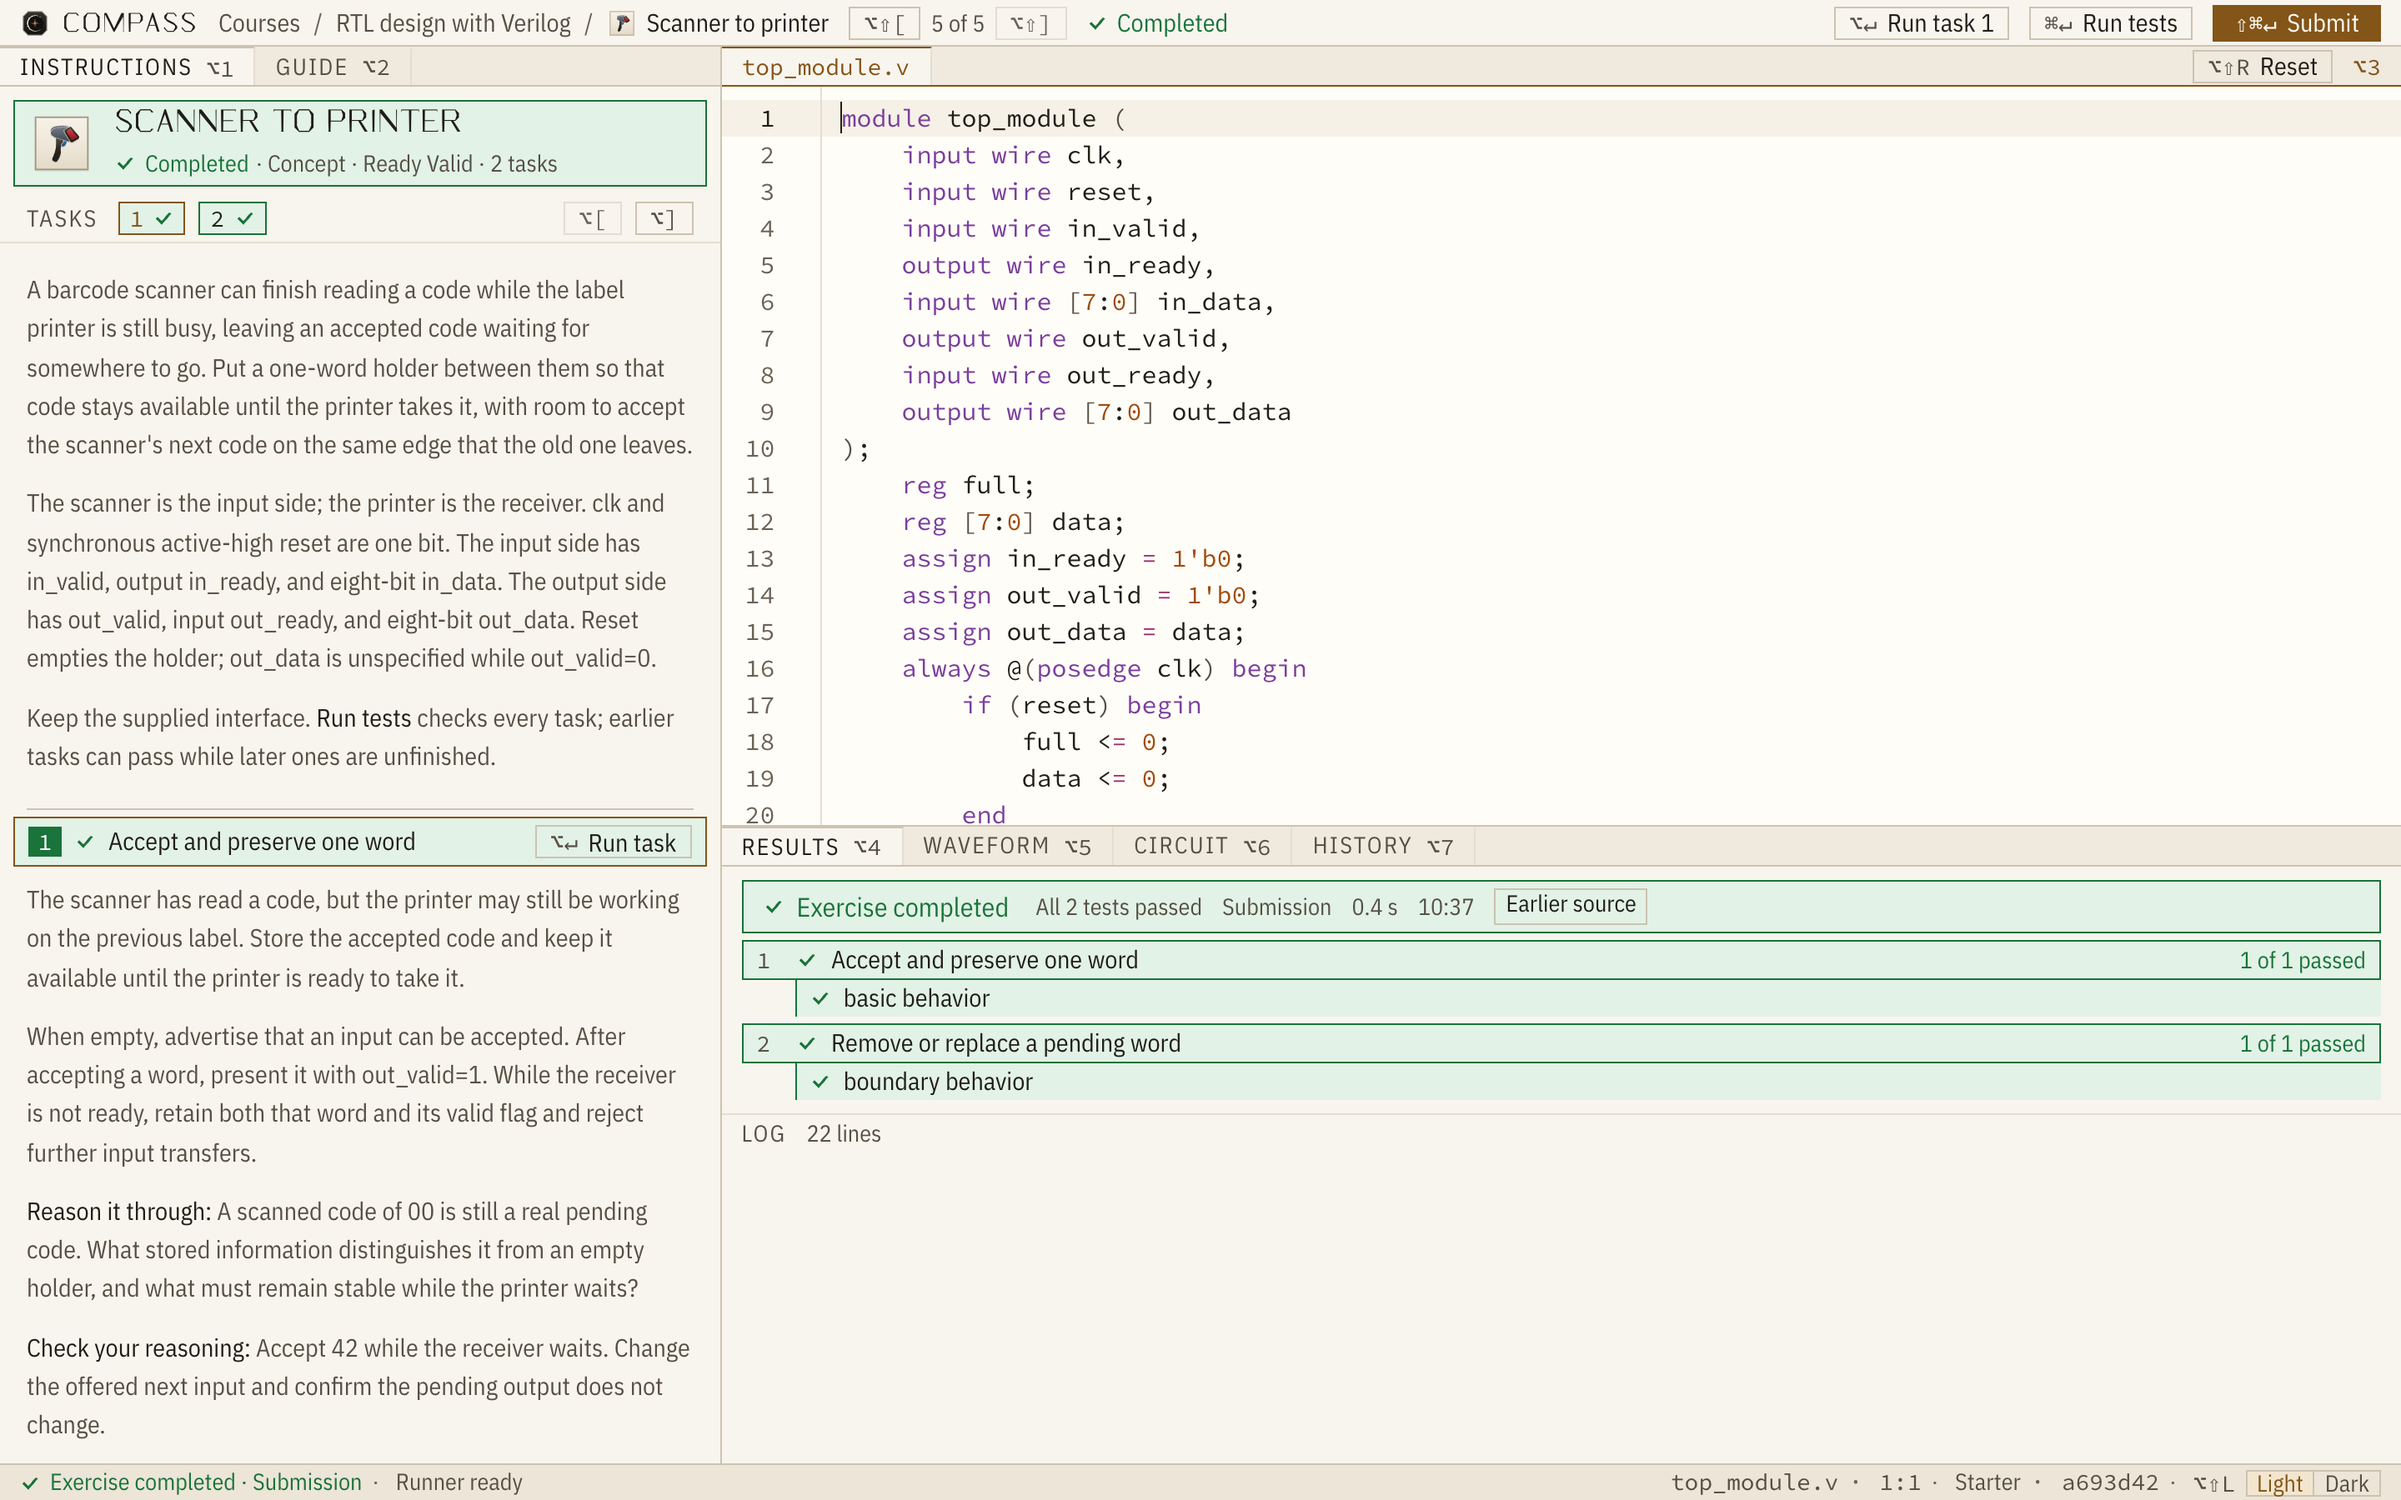
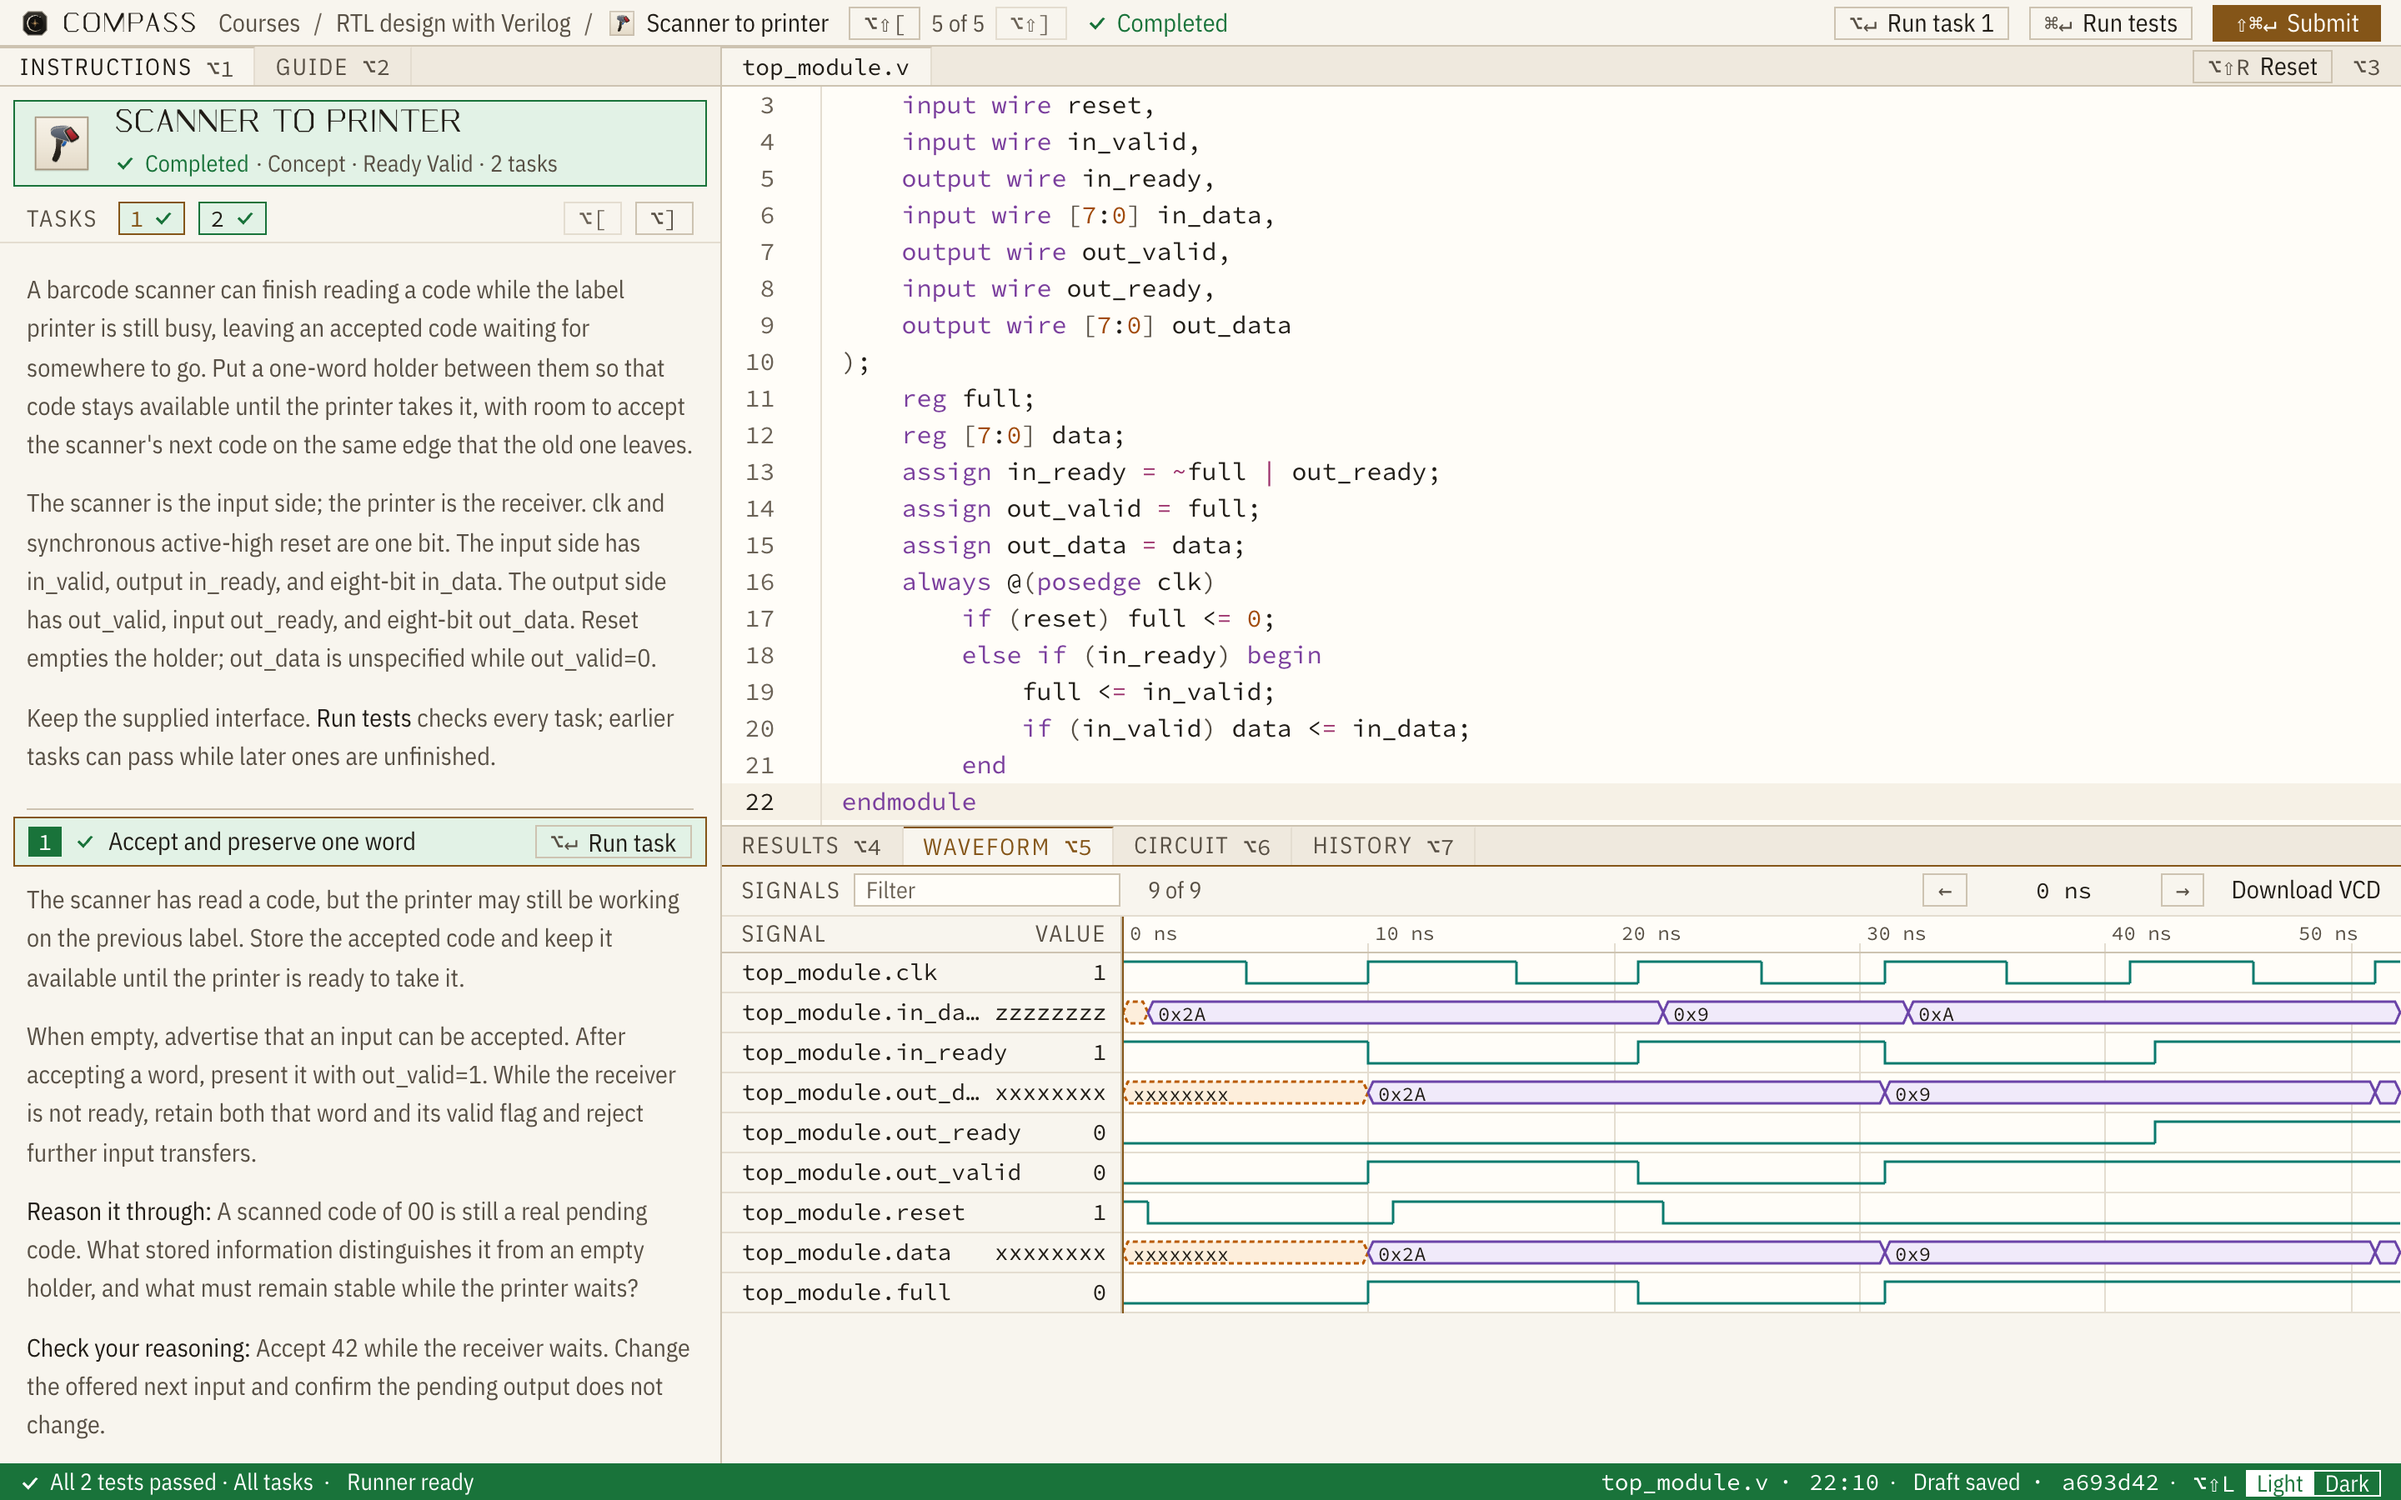
Retake the workspace screenshot with the passing solution and match the flow card descriptor
Claude-Session: https://claude.ai/code/session_01VE6j3WRdUkYkmdJG6Q3Me5

diff --git a/site/index.html b/site/index.html
@@ -178,8 +178,8 @@
     <div class="actions">
       <button class="btn btn-soon" type="button" data-release-download disabled title="A packaged download is in preparation">Download <span class="sep">&middot;</span> in preparation</button>
     </div>
-    <div class="shot"><img src="assets/workspace.png?v=1" width="2880" height="1800"
-      alt="The Compass workspace on the Scanner to printer exercise: the instructions and task list on the left, the Verilog source in the editor, and the results dock showing all tests passed"></div>
+    <div class="shot"><img src="assets/workspace.png?v=2" width="2880" height="1800"
+      alt="The Compass workspace on the Scanner to printer exercise: the instructions and task list on the left, the Verilog solution in the editor, and the waveform dock after all tests passed"></div>
   </div>
 </header>
 
@@ -190,7 +190,7 @@
       <h2>Compass, then Caliper</h2>
       <p class="intro">Learn technical skills in Compass, then apply them to machine learning in Caliper.</p>
       <div class="flow">
-        <div class="stage here" aria-current="page"><span class="step">Learn</span><img src="assets/compass-icon.svg?v=4" alt="" width="104" height="104"><span class="name">Compass</span><span class="role">Practice platform</span></div>
+        <div class="stage here" aria-current="page"><span class="step">Learn</span><img src="assets/compass-icon.svg?v=4" alt="" width="104" height="104"><span class="name">Compass</span><span class="role">Technical skill practice platform</span></div>
         <svg class="flow-arrow" viewBox="0 0 132 24" preserveAspectRatio="none" aria-hidden="true"><line x1="14" y1="12" x2="110" y2="12"/><path d="M118 12 L106 6.5 L106 17.5 Z"/></svg>
         <a class="stage" href="https://ahmedkhan-gh.github.io/caliper/"><span class="step">Work</span><img src="assets/caliper-icon.svg?v=3" alt="" width="104" height="104"><span class="name">Caliper</span><span class="role">Machine learning visualization framework</span><span class="visit">Visit &rarr;</span></a>
       </div>
